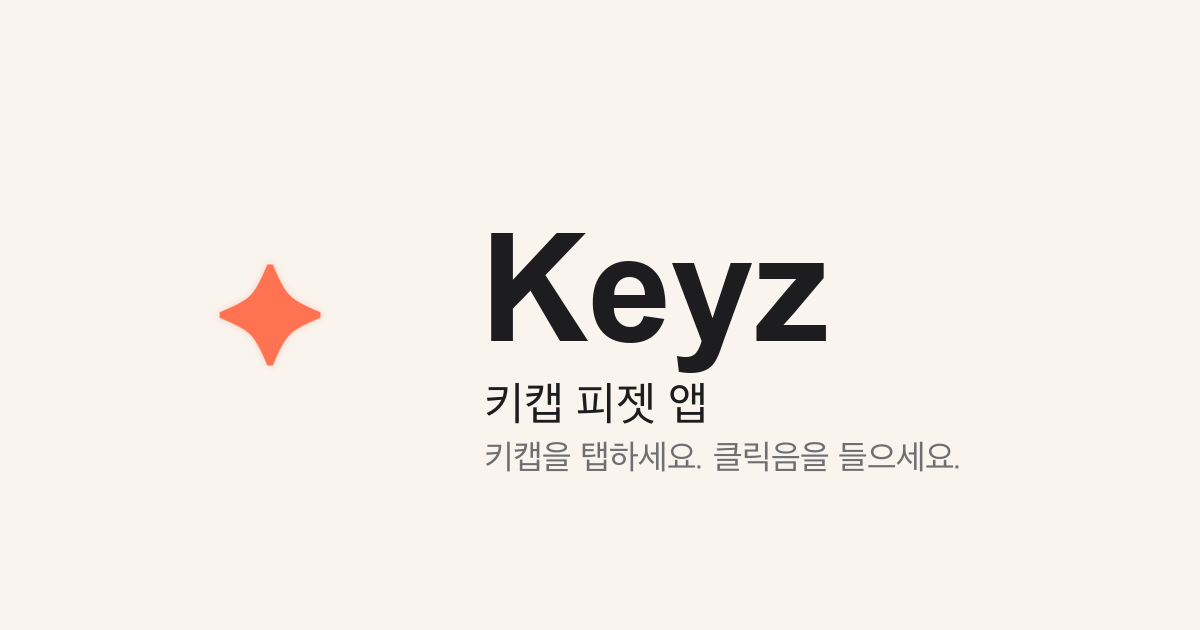
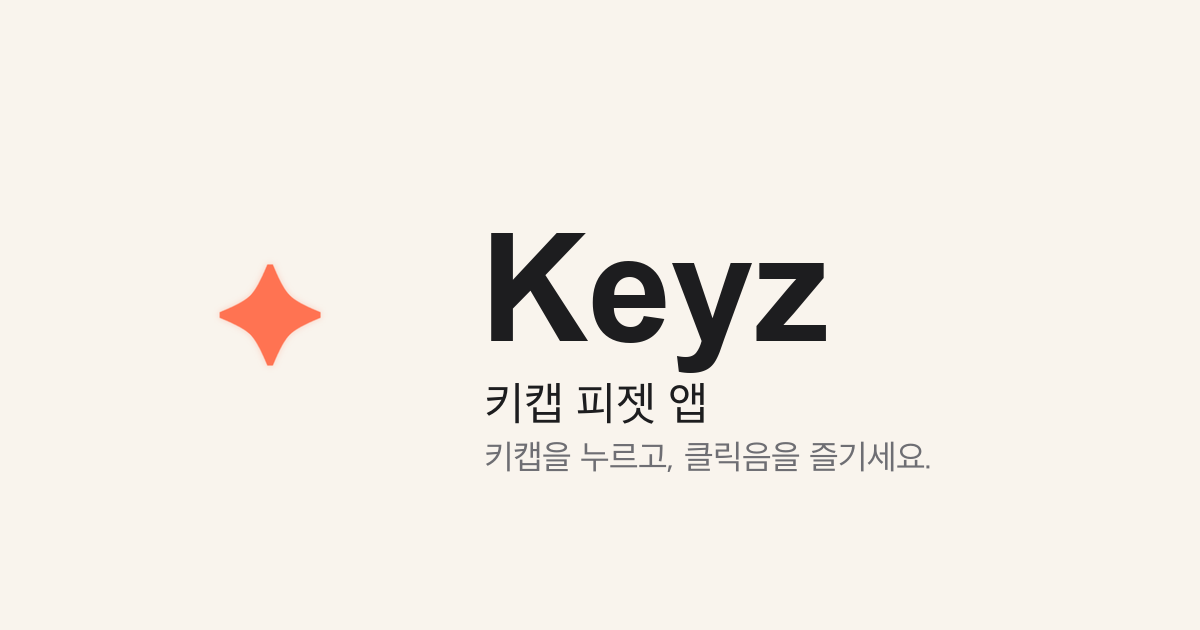
Refine KO/JA copy to read more naturally; bump sound packs to 6
- Reword KO landing strings (hero, tap hint, features, download)
  to read like native Korean rather than literal translations
- Reword JA landing strings (hero, tap hint, features, download)
- Update meta description / og:description / JSON-LD per language
- Regenerate KO and JA OG images with refined sub-taglines
- Fix sound-pack count in EN/KO/JA from "3" to "6"

Changed region(s): [[0.4625, 0.6937, 0.8017, 0.754]]

diff --git a/ja/index.html b/ja/index.html
@@ -5,7 +5,7 @@
   <meta name="viewport" content="width=device-width, initial-scale=1.0" />
 
   <title>Keyz — iPhone向けキーキャップ・フィジェットアプリ</title>
-  <meta name="description" content="Keyzはキーキャップ・フィジェットアプリ。メカニカルキーボードのキーキャップをタップしてクリック音を聞き、スキンをカスタマイズして、隠しデザインをアンロック。App Storeで無料。" />
+  <meta name="description" content="Keyzはキーキャップ・フィジェットアプリ。メカニカルキーボードのキーキャップを押してクリック音を楽しみ、自分好みのスキンにカスタマイズ、隠しデザインも集められます。App Storeで無料。" />
   <meta name="keywords" content="キーキャップ フィジェット アプリ, メカニカルキーボード アプリ, フィジェット アプリ, キーボード ASMR, クリッキー キーボード, キーキャップ シミュレーター, iPhone フィジェット, Keyz" />
   <meta name="author" content="Keyz" />
   <meta name="robots" content="index, follow" />
@@ -28,7 +28,7 @@
   <meta property="og:type" content="website" />
   <meta property="og:site_name" content="Keyz" />
   <meta property="og:title" content="Keyz — iPhone向けキーキャップ・フィジェットアプリ" />
-  <meta property="og:description" content="メカニカルキーボードのキーキャップをタップしてクリック音を聞き、自分だけのキーキャップにカスタマイズ。App Storeで無料。" />
+  <meta property="og:description" content="メカニカルキーボードのキーキャップを押してクリック音を楽しみ、自分だけのキーキャップにカスタマイズ。App Storeで無料。" />
   <meta property="og:url" content="https://keyz.dev/ja/" />
   <meta property="og:image" content="https://keyz.dev/og-image-ja.png" />
   <meta property="og:image:width" content="1200" />
@@ -40,7 +40,7 @@
   <!-- Twitter Card -->
   <meta name="twitter:card" content="summary_large_image" />
   <meta name="twitter:title" content="Keyz — iPhone向けキーキャップ・フィジェットアプリ" />
-  <meta name="twitter:description" content="メカニカルキーボードのキーキャップをタップしてクリック音を聞き、自分だけのキーキャップにカスタマイズ。App Storeで無料。" />
+  <meta name="twitter:description" content="メカニカルキーボードのキーキャップを押してクリック音を楽しみ、自分だけのキーキャップにカスタマイズ。App Storeで無料。" />
   <meta name="twitter:image" content="https://keyz.dev/og-image-ja.png" />
 
   <!-- Structured data -->
@@ -51,7 +51,7 @@
     "name": "Keyz",
     "operatingSystem": "iOS 17.0+",
     "applicationCategory": "EntertainmentApplication",
-    "description": "Keyzはキーキャップ・フィジェットアプリ。メカニカルキーボードのキーキャップをタップしてクリック音を聞き、スキンをカスタマイズして、隠しデザインをアンロック。",
+    "description": "Keyzはキーキャップ・フィジェットアプリ。メカニカルキーボードのキーキャップを押してクリック音を楽しみ、自分好みのスキンにカスタマイズ、隠しデザインも集められます。",
     "url": "https://keyz.dev/ja/",
     "downloadUrl": "https://apps.apple.com/app/id6770513549",
     "image": "https://keyz.dev/og-image-ja.png",
@@ -77,7 +77,7 @@
 
 <section class="hero">
   <h1 class="app-name">Keyz</h1>
-  <p class="hero-tagline">キーキャップをタップ。クリック音を聴く。<br>ポケットに収まる<br>メカニカルキーボード体験。</p>
+  <p class="hero-tagline">キーキャップをタップ、響くクリック音。<br>ポケットに収まる<br>メカニカルキーボード。</p>
   <a class="hero-cta" href="https://apps.apple.com/app/id6770513549">
     <svg viewBox="0 0 24 24" fill="currentColor"><path d="M18.71 19.5c-.83 1.24-1.71 2.45-3.05 2.47-1.34.03-1.77-.79-3.29-.79-1.53 0-2 .77-3.27.82-1.31.05-2.3-1.32-3.14-2.53C4.25 17 2.94 12.45 4.7 9.39c.87-1.52 2.43-2.48 4.12-2.51 1.28-.02 2.5.87 3.29.87.78 0 2.26-1.07 3.8-.91.65.03 2.47.26 3.64 1.98-.09.06-2.17 1.28-2.15 3.81.03 3.02 2.65 4.03 2.68 4.04-.03.07-.42 1.44-1.38 2.83M13 3.5c.73-.83 1.94-1.46 2.94-1.5.13 1.17-.34 2.35-1.04 3.19-.69.85-1.83 1.51-2.95 1.42-.15-1.15.41-2.35 1.05-3.11z"/></svg>
     App Storeでダウンロード
@@ -90,7 +90,7 @@
     </div>
     <div class="tap-hint" id="tapHint">
       <svg viewBox="0 0 24 24" fill="none" stroke="currentColor" stroke-width="2" stroke-linecap="round" stroke-linejoin="round"><path d="M9 11.5V5.5a1.5 1.5 0 0 1 3 0v5"/><path d="M12 10V4.5a1.5 1.5 0 0 1 3 0V10"/><path d="M15 9.5V6a1.5 1.5 0 0 1 3 0v7a7 7 0 0 1-7 7h-1a7 7 0 0 1-6-3.5l-2-3.5a1.5 1.5 0 0 1 2.6-1.5L6 12"/><path d="M9 10.5v-1a1.5 1.5 0 0 0-3 0v3"/></svg>
-      タップしてライトを点ける
+      タップでライトを点灯
     </div>
   </div>
 </section>
@@ -99,22 +99,22 @@
 
 <section class="features">
   <p class="eyebrow reveal">機能</p>
-  <h2 class="section-title reveal">フィジェットに必要な<br>すべて。</h2>
+  <h2 class="section-title reveal">いじって楽しい、<br>すべてがここに。</h2>
   <div class="feat-grid">
     <div class="feat reveal">
       <div class="feat-icon">🎵</div>
       <h3>クリック音</h3>
-      <p>3つのメカニカルキーボード・サウンドパック。タクタイルなクリックからスムーズなリニアまで、自分好みのクリック音を見つけよう。</p>
+      <p>6種類のメカニカルキーボード・サウンドパック。歯切れのよいクリックから滑らかなリニアまで、好みの音が見つかります。</p>
     </div>
     <div class="feat reveal">
       <div class="feat-icon">🎨</div>
       <h3>カスタマイズ</h3>
-      <p>ラベル、画像、キーキャップスキン。すべてのキーを自分だけのものに。</p>
+      <p>ラベル、画像、キーキャップスキン。すべてのキーを自分好みに。</p>
     </div>
     <div class="feat reveal">
       <div class="feat-icon">🔓</div>
       <h3>シークレットスキン</h3>
-      <p>タップのマイルストーンを達成して限定キーキャップスキンをアンロック。クリックし続けて新しいデザインを発見しよう。</p>
+      <p>タップを重ねて目標を達成すると、限定キーキャップスキンが解放。押すほどに新しいデザインが見つかります。</p>
     </div>
   </div>
 </section>
@@ -123,8 +123,8 @@
 
 <section class="download">
   <div class="dl-card reveal">
-    <h2>クリックの準備はいい？</h2>
-    <p>無料でダウンロード。数秒でタップを始められます。</p>
+    <h2>さあ、タップしてみよう。</h2>
+    <p>無料でダウンロード。数秒ですぐに始められます。</p>
     <a class="dl-btn" href="https://apps.apple.com/app/id6770513549">
       <svg viewBox="0 0 24 24" fill="currentColor"><path d="M18.71 19.5c-.83 1.24-1.71 2.45-3.05 2.47-1.34.03-1.77-.79-3.29-.79-1.53 0-2 .77-3.27.82-1.31.05-2.3-1.32-3.14-2.53C4.25 17 2.94 12.45 4.7 9.39c.87-1.52 2.43-2.48 4.12-2.51 1.28-.02 2.5.87 3.29.87.78 0 2.26-1.07 3.8-.91.65.03 2.47.26 3.64 1.98-.09.06-2.17 1.28-2.15 3.81.03 3.02 2.65 4.03 2.68 4.04-.03.07-.42 1.44-1.38 2.83M13 3.5c.73-.83 1.94-1.46 2.94-1.5.13 1.17-.34 2.35-1.04 3.19-.69.85-1.83 1.51-2.95 1.42-.15-1.15.41-2.35 1.05-3.11z"/></svg>
       App Storeでダウンロード

diff --git a/ko/index.html b/ko/index.html
@@ -5,7 +5,7 @@
   <meta name="viewport" content="width=device-width, initial-scale=1.0" />
 
   <title>Keyz — 아이폰용 키캡 피젯 앱</title>
-  <meta name="description" content="Keyz는 아이폰용 키캡 피젯 앱입니다. 기계식 키보드 키캡을 탭하고, 클릭음을 듣고, 스킨을 커스터마이즈하고, 숨겨진 디자인을 잠금 해제하세요. App Store에서 무료." />
+  <meta name="description" content="Keyz는 아이폰용 키캡 피젯 앱입니다. 기계식 키보드 키캡을 누르며 클릭음을 즐기고, 나만의 스킨으로 꾸미고, 숨겨진 디자인도 모아보세요. App Store에서 무료." />
   <meta name="keywords" content="키캡 피젯 앱, 기계식 키보드 앱, 피젯 앱, 키보드 ASMR, 클릭 키보드, 키캡 시뮬레이터, 아이폰 피젯, Keyz, 키즈" />
   <meta name="author" content="Keyz" />
   <meta name="robots" content="index, follow" />
@@ -28,7 +28,7 @@
   <meta property="og:type" content="website" />
   <meta property="og:site_name" content="Keyz" />
   <meta property="og:title" content="Keyz — 아이폰용 키캡 피젯 앱" />
-  <meta property="og:description" content="기계식 키보드 키캡을 탭하고 클릭음을 들으며, 나만의 키캡으로 커스터마이즈하세요. App Store에서 무료." />
+  <meta property="og:description" content="기계식 키보드 키캡을 누르며 클릭음을 즐기고, 나만의 키캡으로 꾸며보세요. App Store에서 무료." />
   <meta property="og:url" content="https://keyz.dev/ko/" />
   <meta property="og:image" content="https://keyz.dev/og-image-ko.png" />
   <meta property="og:image:width" content="1200" />
@@ -40,7 +40,7 @@
   <!-- Twitter Card -->
   <meta name="twitter:card" content="summary_large_image" />
   <meta name="twitter:title" content="Keyz — 아이폰용 키캡 피젯 앱" />
-  <meta name="twitter:description" content="기계식 키보드 키캡을 탭하고 클릭음을 들으며, 나만의 키캡으로 커스터마이즈하세요. App Store에서 무료." />
+  <meta name="twitter:description" content="기계식 키보드 키캡을 누르며 클릭음을 즐기고, 나만의 키캡으로 꾸며보세요. App Store에서 무료." />
   <meta name="twitter:image" content="https://keyz.dev/og-image-ko.png" />
 
   <!-- Structured data -->
@@ -51,7 +51,7 @@
     "name": "Keyz",
     "operatingSystem": "iOS 17.0+",
     "applicationCategory": "EntertainmentApplication",
-    "description": "Keyz는 아이폰용 키캡 피젯 앱입니다. 기계식 키보드 키캡을 탭하고, 클릭음을 듣고, 스킨을 커스터마이즈하고, 숨겨진 디자인을 잠금 해제하세요.",
+    "description": "Keyz는 아이폰용 키캡 피젯 앱입니다. 기계식 키보드 키캡을 누르며 클릭음을 즐기고, 나만의 스킨으로 꾸미고, 숨겨진 디자인도 모아보세요.",
     "url": "https://keyz.dev/ko/",
     "downloadUrl": "https://apps.apple.com/app/id6770513549",
     "image": "https://keyz.dev/og-image-ko.png",
@@ -77,7 +77,7 @@
 
 <section class="hero">
   <h1 class="app-name">Keyz</h1>
-  <p class="hero-tagline">키캡을 탭하세요. 클릭음을 들으세요.<br>주머니 속에 들어오는<br>기계식 키보드 경험.</p>
+  <p class="hero-tagline">키캡을 누르고, 클릭음을 들어보세요.<br>주머니 속에 쏙 들어온<br>기계식 키보드.</p>
   <a class="hero-cta" href="https://apps.apple.com/app/id6770513549">
     <svg viewBox="0 0 24 24" fill="currentColor"><path d="M18.71 19.5c-.83 1.24-1.71 2.45-3.05 2.47-1.34.03-1.77-.79-3.29-.79-1.53 0-2 .77-3.27.82-1.31.05-2.3-1.32-3.14-2.53C4.25 17 2.94 12.45 4.7 9.39c.87-1.52 2.43-2.48 4.12-2.51 1.28-.02 2.5.87 3.29.87.78 0 2.26-1.07 3.8-.91.65.03 2.47.26 3.64 1.98-.09.06-2.17 1.28-2.15 3.81.03 3.02 2.65 4.03 2.68 4.04-.03.07-.42 1.44-1.38 2.83M13 3.5c.73-.83 1.94-1.46 2.94-1.5.13 1.17-.34 2.35-1.04 3.19-.69.85-1.83 1.51-2.95 1.42-.15-1.15.41-2.35 1.05-3.11z"/></svg>
     App Store에서 다운로드
@@ -90,7 +90,7 @@
     </div>
     <div class="tap-hint" id="tapHint">
       <svg viewBox="0 0 24 24" fill="none" stroke="currentColor" stroke-width="2" stroke-linecap="round" stroke-linejoin="round"><path d="M9 11.5V5.5a1.5 1.5 0 0 1 3 0v5"/><path d="M12 10V4.5a1.5 1.5 0 0 1 3 0V10"/><path d="M15 9.5V6a1.5 1.5 0 0 1 3 0v7a7 7 0 0 1-7 7h-1a7 7 0 0 1-6-3.5l-2-3.5a1.5 1.5 0 0 1 2.6-1.5L6 12"/><path d="M9 10.5v-1a1.5 1.5 0 0 0-3 0v3"/></svg>
-      탭해서 불을 켜보세요
+      탭하면 불이 켜져요
     </div>
   </div>
 </section>
@@ -99,22 +99,22 @@
 
 <section class="features">
   <p class="eyebrow reveal">기능</p>
-  <h2 class="section-title reveal">피젯에 필요한<br>모든 것.</h2>
+  <h2 class="section-title reveal">만지작거리기 좋은<br>모든 기능.</h2>
   <div class="feat-grid">
     <div class="feat reveal">
       <div class="feat-icon">🎵</div>
       <h3>클릭 사운드</h3>
-      <p>3가지 기계식 키보드 사운드 팩. 타격감 있는 클릭부터 부드러운 리니어까지, 나만의 클릭음을 찾으세요.</p>
+      <p>6가지 기계식 키보드 사운드 팩. 경쾌한 클릭부터 부드러운 타건음까지, 취향에 맞는 소리를 찾아보세요.</p>
     </div>
     <div class="feat reveal">
       <div class="feat-icon">🎨</div>
       <h3>커스터마이즈</h3>
-      <p>라벨, 이미지, 키캡 스킨. 모든 키를 나만의 것으로 만드세요.</p>
+      <p>라벨, 이미지, 키캡 스킨까지. 모든 키를 내 취향대로 꾸며보세요.</p>
     </div>
     <div class="feat reveal">
       <div class="feat-icon">🔓</div>
       <h3>시크릿 스킨</h3>
-      <p>탭 마일스톤을 달성해 독점 키캡 스킨을 잠금 해제하세요. 계속 클릭하면 더 많은 디자인이 나타납니다.</p>
+      <p>탭을 거듭해 목표를 달성하면 한정 키캡 스킨이 열려요. 누를수록 새로운 디자인이 나타납니다.</p>
     </div>
   </div>
 </section>
@@ -123,8 +123,8 @@
 
 <section class="download">
   <div class="dl-card reveal">
-    <h2>클릭할 준비 되셨나요?</h2>
-    <p>무료로 다운로드하세요. 몇 초면 탭을 시작할 수 있습니다.</p>
+    <h2>이제 눌러볼까요?</h2>
+    <p>무료로 받고, 몇 초 만에 바로 시작하세요.</p>
     <a class="dl-btn" href="https://apps.apple.com/app/id6770513549">
       <svg viewBox="0 0 24 24" fill="currentColor"><path d="M18.71 19.5c-.83 1.24-1.71 2.45-3.05 2.47-1.34.03-1.77-.79-3.29-.79-1.53 0-2 .77-3.27.82-1.31.05-2.3-1.32-3.14-2.53C4.25 17 2.94 12.45 4.7 9.39c.87-1.52 2.43-2.48 4.12-2.51 1.28-.02 2.5.87 3.29.87.78 0 2.26-1.07 3.8-.91.65.03 2.47.26 3.64 1.98-.09.06-2.17 1.28-2.15 3.81.03 3.02 2.65 4.03 2.68 4.04-.03.07-.42 1.44-1.38 2.83M13 3.5c.73-.83 1.94-1.46 2.94-1.5.13 1.17-.34 2.35-1.04 3.19-.69.85-1.83 1.51-2.95 1.42-.15-1.15.41-2.35 1.05-3.11z"/></svg>
       App Store에서 다운로드

diff --git a/index.html b/index.html
@@ -113,7 +113,7 @@
     <div class="feat reveal">
       <div class="feat-icon">🎵</div>
       <h3>Click Sounds</h3>
-      <p>3 mechanical keyboard sound packs. From tactile clacks to smooth linears — find your perfect click.</p>
+      <p>6 mechanical keyboard sound packs. From tactile clacks to smooth linears — find your perfect click.</p>
     </div>
     <div class="feat reveal">
       <div class="feat-icon">🎨</div>
